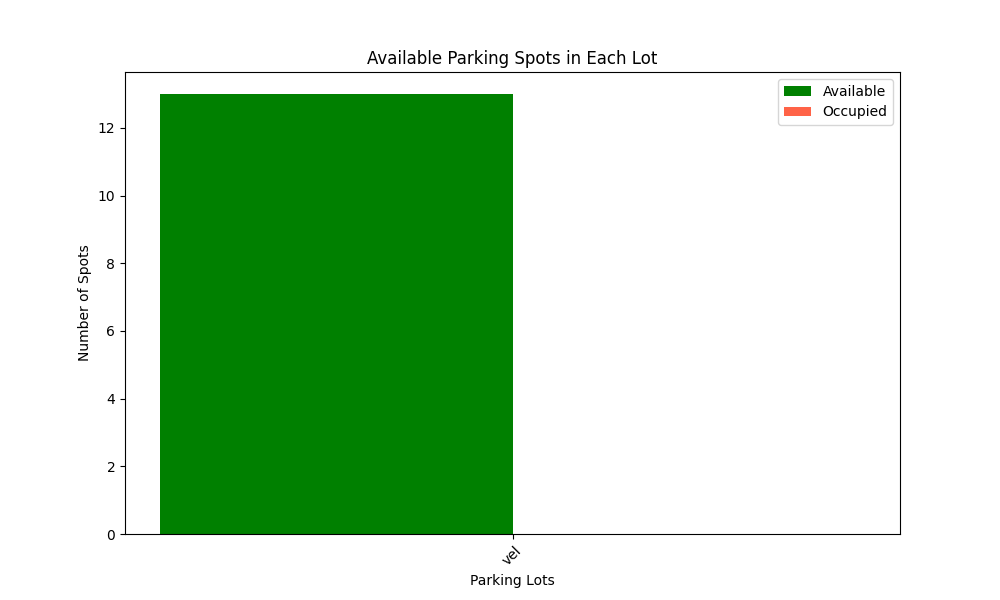
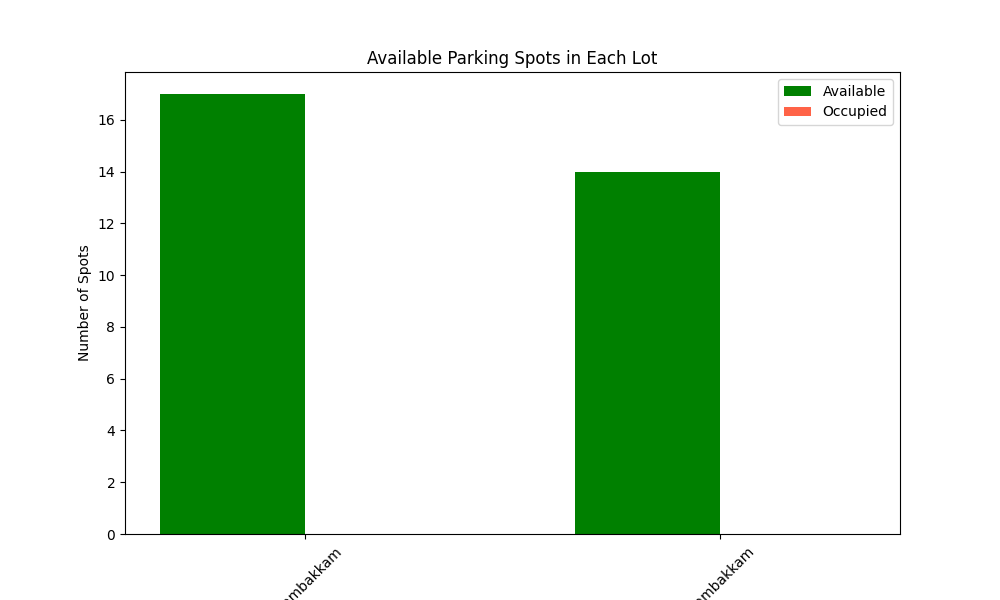
Final Updates

diff --git a/backend/app.py b/backend/app.py
@@ -128,11 +128,11 @@ class Vehicle(db.Model):
 CELERYBEAT_SCHEDULE = {
     'daily_rem':{
         'task': 'tasks.send_reminder',
-        'schedule': crontab(hour=13, minute=30), 
+        'schedule': crontab(hour=23, minute=30), 
     },
     'monthly_rep': {
         'task': 'tasks.generate_monthly_report',
-        'schedule': crontab(day_of_month=30, hour=13, minute=30), 
+        'schedule': crontab(day_of_month=30, hour=23, minute=30), 
     }
 }
 celery.conf.beat_schedule = CELERYBEAT_SCHEDULE
@@ -370,11 +370,11 @@ def graph_2():
     bar.savefig(bar_path)
     plt.close()
 
-def graph_3():
+def graph_3(user_id):
     data= db.session.query(
         ParkingLot.name,
         func.sum(case((ReserveParkingSpot.end_time.isnot(None), 1),else_=0)).label('reservation_count')
-    ).join(ParkingSpot, ParkingLot.lot_id == ParkingSpot.lot_id).join(ReserveParkingSpot, ParkingSpot.spot_id == ReserveParkingSpot.spot_id).filter(~ParkingLot.name.ilike('__deleted__%')).group_by(ParkingLot.name).all()
+    ).join(ParkingSpot, ParkingLot.lot_id == ParkingSpot.lot_id).join(ReserveParkingSpot, ParkingSpot.spot_id == ReserveParkingSpot.spot_id).filter(~ParkingLot.name.ilike('__deleted__%'), ReserveParkingSpot.u_id == user_id).group_by(ParkingLot.name).all()
     if not data:
         return -1
     lot_names = [row[0] for row in data]
@@ -385,7 +385,7 @@ def graph_3():
     plt.ylabel('Number of Reservations')
     plt.title('Summary on already used parking spots')
     plt.xticks(rotation=45)
-    bar_path = os.path.join(static_dir, 'lot_reservations.png')
+    bar_path = os.path.join(static_dir, f'lot_reservations_{user_id}.png')
     bar.savefig(bar_path)
     plt.close()
 
@@ -507,7 +507,7 @@ def admin_dashboard():
     p_lots = ParkingLot.query.filter(~ParkingLot.name.ilike('__deleted__%')).all()
     data = []
     for lot in p_lots:
-        spots= ParkingSpot.query.filter_by(lot_id=lot.lot_id).all()
+        spots= ParkingSpot.query.filter(ParkingSpot.lot_id==lot.lot_id, ParkingSpot.status != 'X').all()
         reserved_spots = ReserveParkingSpot.query.join(ParkingSpot).filter(ParkingSpot.lot_id == lot.lot_id, ReserveParkingSpot.end_time == None).count()
         data.append({
             'lot_id': lot.lot_id,
@@ -589,7 +589,8 @@ def admin_editlot(lot_id):
                     return jsonify({'msg': 'Cannot reduce Parking Lot with reserved spots'}), 400
                 available_spots = ParkingSpot.query.filter_by(lot_id=lot.lot_id, status='A').limit(n - lot.num).all()
                 for spot in available_spots:
-                    db.session.delete(spot)
+                    spot.status = 'X'
+                    db.session.commit()
             db.session.commit()
             cache.delete(f"admin_dashboard_1")
             return jsonify({'msg': 'Parking Lot updated successfully'}), 200
@@ -750,16 +751,17 @@ def user_summary():
     print(current_user)
     if not current_user.get('admin'):
         user_id = current_user.get("sub")
+        u_id=int(user_id)
         user = User.query.get(int(user_id))
         if not user:
             return jsonify({'msg': 'User not found'}), 404
         
-        c3=graph_3()
+        c3=graph_3(u_id)
         if c3 == -1:
             return jsonify({'msg': 'No data available for summary graphs'}), 404
         return jsonify({
         'msg': 'Summary graphs generated successfully',
-        'reservation_graph': '/static/lot_reservations.png',
+        'reservation_graph': f'/static/lot_reservations_{user_id}.png',
         'name': user.name
 }), 200
 
